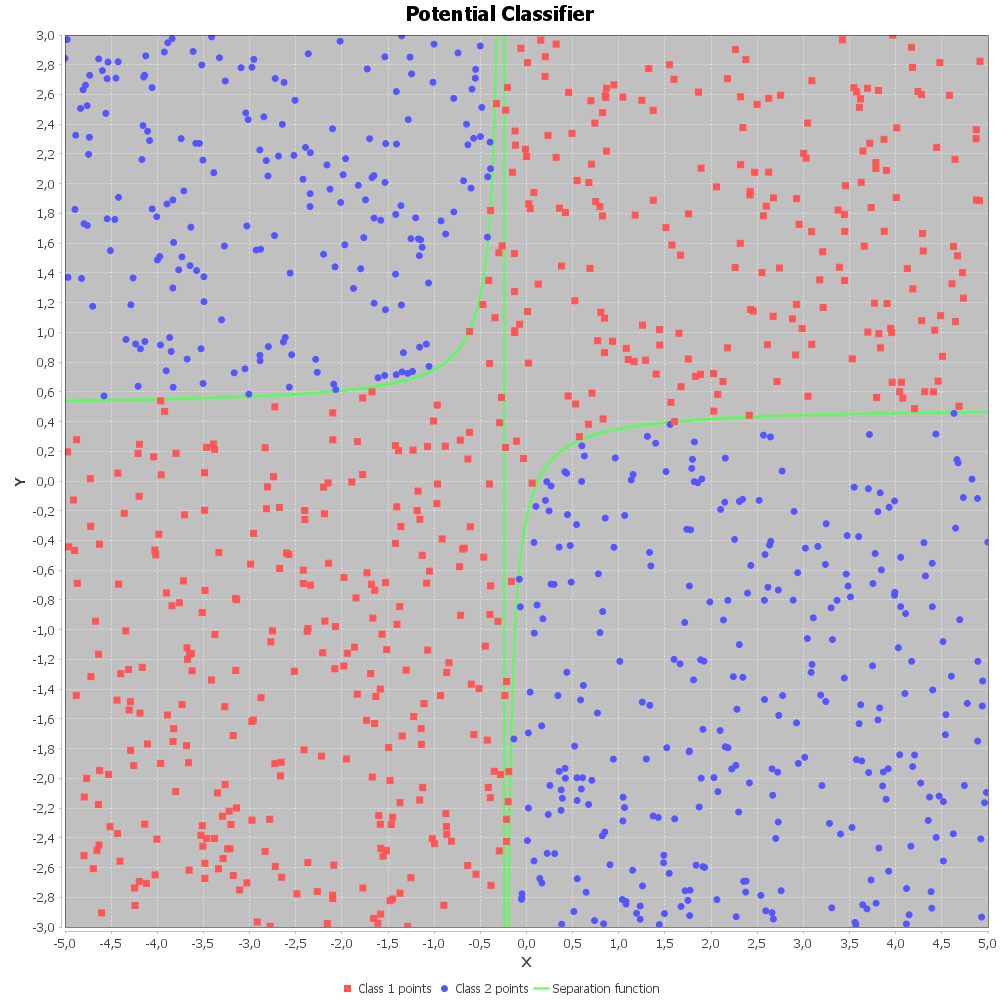
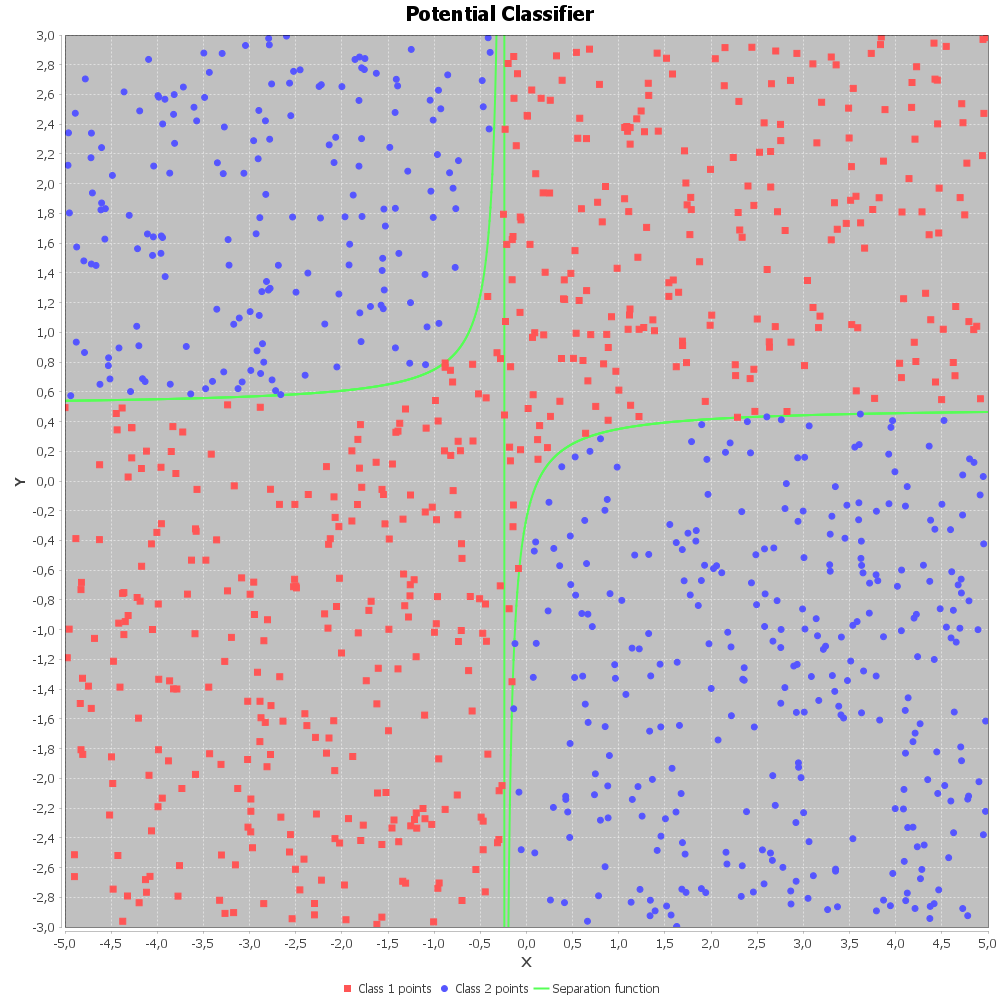
1

diff --git a/Lab05/src/main/kotlin/hummel/PotentialClassifier.kt b/Lab05/src/main/kotlin/hummel/PotentialClassifier.kt
@@ -1,83 +1,23 @@
 package hummel
 
-// Создание точки из двух координат
-infix fun Double.to(y: Double): UnclassifiedPoint = UnclassifiedPoint(this, y)
-
-// Присвоение класса точке
-infix fun UnclassifiedPoint.classifiedBy(classIndex: Int): Point = Point(this.x, this.y, classIndex)
-
-// Класс представляющий точку без классификации
-data class UnclassifiedPoint(val x: Double, val y: Double)
-
-// Класс представляющий точку с классификацией
-data class Point(val x: Double, val y: Double, val classIndex: Int)
-
-// Структура данных, содержащая функции для решений и построения графика
-data class GeneratedFunctions(val decisionFunction: PotentialDecisionFunction, val chartFunction: ChartFunction)
-
-// Коэффициенты для потенциальной функции
-private val ERMIT_COEFFICIENTS = PotentialCoefficients(1.0, 4.0, 4.0, 16.0)
-private val INITIAL_COEFFICIENTS = PotentialCoefficients(0.0, 0.0, 0.0, 0.0)
-
-// Типы для удобства использования
-typealias PotentialDecisionFunction = (UnclassifiedPoint) -> Point
+typealias DecisionFunction = (UnclassifiedPoint) -> ClassifiedPoint
 typealias ChartFunction = (Double) -> Double
+typealias PotentialFunction = (ClassifiedPoint) -> Double
 
-// Тип для представления потенциальной функции
-private typealias PotentialFunction = (Point) -> Double
+data class UnclassifiedPoint(val x: Double, val y: Double)
+data class ClassifiedPoint(val x: Double, val y: Double, val classIndex: Int)
+data class GeneratedFunctions(val decisionFunction: DecisionFunction, val chartFunction: ChartFunction)
 
-// Класс, представляющий коэффициенты потенциальной функции
-data class PotentialCoefficients(val first: Double, val second: Double, val third: Double, val fourth: Double) {
-
-	// Перегрузка операторов для удобства работы с коэффициентами
-	operator fun plus(other: PotentialCoefficients): PotentialCoefficients =
-		PotentialCoefficients(first + other.first, second + other.second, third + other.third, fourth + other.fourth)
-
-	operator fun times(c: Double): PotentialCoefficients =
-		PotentialCoefficients(c * first, c * second, c * third, c * fourth)
-
-	// Подстановка значений точки в коэффициенты
-	fun substitutePoint(point: Point): PotentialCoefficients =
-		PotentialCoefficients(first, second * point.x, third * point.y, fourth * point.x * point.y)
-
-	// Получение потенциальной функции
-	fun getPotentialFunction(): PotentialFunction = { (x, y, _) ->
-		first + second * x + third * y + fourth * x * y
-	}
-
-	// Получение функции для построения графика
-	fun getChartFunction(): (Double) -> Double = {
-		-(first + second * it) / (third + fourth * it)
-	}
-
-	// Строковое представление коэффициентов
-	override fun toString(): String {
-		return "$first + ($second)*X + ($third)*Y + ($fourth)*X*Y"
-	}
-}
-
-// Функция для получения коэффициента нормализации
-private fun getNormalizationCoefficient(potentialValue: Double, classIndex: Int) =
-	if (classIndex == 1 && potentialValue <= 0) {
-		1.0
-	} else if (classIndex == 2 && potentialValue > 0) {
-		-1.0
-	} else {
-		0.0
-	}
-
-// Генерация функции принятия решений и функции для графика
-fun generateDecisionFunction(
-	trainSet: Array<Point>, initialPotentialCoefficients: PotentialCoefficients = INITIAL_COEFFICIENTS
-): GeneratedFunctions = generateDecisionFunction(trainSet.asList(), initialPotentialCoefficients)
+private val ermitCoefficients = PotentialCoefficients(1.0, 4.0, 4.0, 16.0)
+private val initialCoefficients = PotentialCoefficients(0.0, 0.0, 0.0, 0.0)
 
 fun generateDecisionFunction(
-	trainSet: List<Point>, initialPotentialCoefficients: PotentialCoefficients = INITIAL_COEFFICIENTS
+	trainSet: List<ClassifiedPoint>, initialPotentialCoefficients: PotentialCoefficients = initialCoefficients
 ): GeneratedFunctions {
 	var potentialCoefficients = initialPotentialCoefficients
 	var normalizationCoefficient = 1.0
 	for (i in 0..(trainSet.size - 2)) {
-		val localPotentialCoefficients = ERMIT_COEFFICIENTS.substitutePoint(trainSet[i])
+		val localPotentialCoefficients = ermitCoefficients.substitutePoint(trainSet[i])
 		potentialCoefficients += (localPotentialCoefficients * normalizationCoefficient)
 		val potentialValue = potentialCoefficients.getPotentialFunction()(trainSet[i + 1])
 		normalizationCoefficient = getNormalizationCoefficient(potentialValue, trainSet[i + 1].classIndex)
@@ -87,9 +27,45 @@ fun generateDecisionFunction(
 		val potentialValue =
 			potentialCoefficients.first + potentialCoefficients.second * x + potentialCoefficients.third * y + potentialCoefficients.fourth * x * y
 		if (potentialValue <= 0) {
-			Point(x, y, 2)
+			ClassifiedPoint(x, y, 2)
 		} else {
-			Point(x, y, 1)
+			ClassifiedPoint(x, y, 1)
 		}
 	}, potentialCoefficients.getChartFunction())
+}
+
+private fun getNormalizationCoefficient(potentialValue: Double, classIndex: Int): Double {
+	return if (classIndex == 1 && potentialValue <= 0) {
+		1.0
+	} else if (classIndex == 2 && potentialValue > 0) {
+		-1.0
+	} else {
+		0.0
+	}
+}
+
+data class PotentialCoefficients(val first: Double, val second: Double, val third: Double, val fourth: Double) {
+	operator fun plus(other: PotentialCoefficients): PotentialCoefficients {
+		return PotentialCoefficients(
+			first + other.first, second + other.second, third + other.third, fourth + other.fourth
+		)
+	}
+
+	operator fun times(c: Double): PotentialCoefficients {
+		return PotentialCoefficients(c * first, c * second, c * third, c * fourth)
+	}
+
+	fun substitutePoint(point: ClassifiedPoint): PotentialCoefficients {
+		return PotentialCoefficients(first, second * point.x, third * point.y, fourth * point.x * point.y)
+	}
+
+	fun getPotentialFunction(): PotentialFunction {
+		return { (x, y, _) -> first + second * x + third * y + fourth * x * y }
+	}
+
+	fun getChartFunction(): ChartFunction {
+		return { -(first + second * it) / (third + fourth * it) }
+	}
+
+	override fun toString(): String = "$first + ($second)*X + ($third)*Y + ($fourth)*X*Y"
 }

diff --git a/Lab05/src/main/kotlin/hummel/Main.kt b/Lab05/src/main/kotlin/hummel/Main.kt
@@ -2,62 +2,46 @@ package hummel
 
 import java.util.*
 
-// Инициализация объекта для генерации случайных чисел
-val RANDOM: Random = Random()
+val random: Random = Random()
+val xRange: Range = Range(-5.0, 5.0)
+val yRange: Range = Range(-3.0, 3.0)
 
-// Класс, представляющий диапазон значений
+val trainSet: MutableList<ClassifiedPoint> = mutableListOf(
+	ClassifiedPoint(-1.0, 0.0, 1),
+	ClassifiedPoint(1.0, 1.0, 1),
+	ClassifiedPoint(2.0, 0.0, 2),
+	ClassifiedPoint(1.0, -2.0, 2)
+)
+
+val trainSetIntersectedLines: MutableList<ClassifiedPoint> = mutableListOf(
+	ClassifiedPoint(-1.0, -1.0, 1),
+	ClassifiedPoint(1.0, 1.0, 1),
+	ClassifiedPoint(-1.0, 1.0, 2),
+	ClassifiedPoint(1.0, -1.0, 2)
+)
+
+fun main() {
+	val dataSets = arrayOf(trainSet, trainSetIntersectedLines)
+
+	dataSets.forEachIndexed { index, dataSet ->
+		//разделяющая функция и решающее правило
+		val (decisionFunction, chartFunction) = generateDecisionFunction(dataSet)
+
+		val points = List(1000) { UnclassifiedPoint(xRange.random(), yRange.random()) }
+
+		val classifiedPoints = points.map { decisionFunction(it) }
+		draw(classifiedPoints, xRange, yRange, chartFunction, index)
+	}
+}
+
 data class Range(val from: Double, val to: Double) {
+	fun random(): Double = from + (to - from) * random.nextDouble()
 
-	// Генерация случайного числа в пределах диапазона
-	fun randomInto(): Double = from + (to - from) * RANDOM.nextDouble()
-
-	// Выполнение действия для каждого значения с шагом
-	fun forEachWithStep(step: Double, action: (currentValue: Double) -> Unit) {
+	fun forEachWithStep(step: Double, action: (Double) -> Unit) {
 		var current = from
 		while (current < to) {
 			action(current)
 			current += step
 		}
-	}
-}
-
-// Задание диапазонов для координат X и Y
-val X_RANGE: Range = Range(-5.0, 5.0)
-val Y_RANGE: Range = Range(-3.0, 3.0)
-
-// Задание обучающего набора по умолчанию
-val TRAIN_SET_DEFAULT: Array<Point> = arrayOf(
-	-1.0 to 0.0 classifiedBy 1, 1.0 to 1.0 classifiedBy 1, 2.0 to 0.0 classifiedBy 2, 1.0 to -2.0 classifiedBy 2
-)
-
-// Задание обучающего набора для пересекающихся линий
-val TRAIN_DATA_INTERSECTED_LINES: Array<Point> = arrayOf(
-	-1.0 to -1.0 classifiedBy 1, 1.0 to 1.0 classifiedBy 1, -1.0 to 1.0 classifiedBy 2, 1.0 to -1.0 classifiedBy 2
-)
-
-// Количество случайных точек для генерации
-const val POINT_NUMBER: Int = 1000
-
-// Основная функция
-fun main() {
-	// Массив обучающих наборов
-	val dataSets = arrayOf(TRAIN_SET_DEFAULT, TRAIN_DATA_INTERSECTED_LINES)
-
-	// Итерация по обучающим наборам
-	dataSets.forEachIndexed { index, dataSet ->
-		// Генерация функции принятия решений и функции для графика
-		val (decisionFunction, chartFunction) = generateDecisionFunction(dataSet)
-
-		// Генерация случайных неклассифицированных точек
-		val points = mutableListOf<UnclassifiedPoint>()
-		for (i in 1..POINT_NUMBER) {
-			points.add(
-				X_RANGE.randomInto() to Y_RANGE.randomInto()
-			)
-		}
-
-		// Классификация сгенерированных точек и отрисовка графика
-		val classifiedPoints = points.map { decisionFunction(it) }
-		draw(classifiedPoints, X_RANGE, Y_RANGE, chartFunction, index)
 	}
 }

diff --git a/Lab05/src/main/kotlin/hummel/Draw.kt b/Lab05/src/main/kotlin/hummel/Draw.kt
@@ -10,46 +10,29 @@ import org.jfree.data.xy.XYSeriesCollection
 import java.awt.BasicStroke
 import java.io.File
 
-// Функция для отрисовки графика распознавания объектов методом потенциалов
-fun draw(points: List<Point>, xRange: Range, yRange: Range, chartFunction: ChartFunction, index: Int) {
-	// Создание коллекции данных для графика
+fun draw(points: List<ClassifiedPoint>, xRange: Range, yRange: Range, chartFunction: ChartFunction, index: Int) {
 	val dataset = XYSeriesCollection()
 
-	// Создание серий данных для классов и функции разделения
 	val series1 = XYSeries("Class 1 points")
 	val series2 = XYSeries("Class 2 points")
 	val series3 = XYSeries("Separation function")
 
-	// Заполнение серий данными точек классов
-	points.forEach { (x, y, classIndex) ->
-		if (classIndex == 1) {
-			series1
-		} else {
-			series2
-		}.add(x, y)
-	}
+	points.forEach { (x, y, classIndex) -> (if (classIndex == 1) series1 else series2).add(x, y) }
 
-	// Заполнение серии данных для функции разделения
-	xRange.forEachWithStep(0.01) {
-		series3.add(it, chartFunction(it))
-	}
+	xRange.forEachWithStep(0.01) { series3.add(it, chartFunction(it)) }
 
-	// Добавление серий в коллекцию данных
 	dataset.addSeries(series1)
 	dataset.addSeries(series2)
 	dataset.addSeries(series3)
 
-	// Создание графика с использованием библиотеки JFreeChart
 	val chart = ChartFactory.createXYLineChart(
 		"Potential Classifier", "X", "Y", dataset, PlotOrientation.VERTICAL, true, false, false
 	)
 
-	// Получение объекта XYPlot для настройки осей
-	val plot: XYPlot = chart.plot as XYPlot
+	val plot = chart.plot as XYPlot
 	plot.domainAxis.setRange(xRange.from, xRange.to)
 	plot.rangeAxis.setRange(yRange.from, yRange.to)
 
-	// Получение объекта рендерера для настройки внешнего вида графика
 	val renderer = plot.renderer as XYLineAndShapeRenderer
 	renderer.setSeriesLinesVisible(0, false)
 	renderer.setSeriesShapesVisible(0, true)
@@ -57,6 +40,5 @@ fun draw(points: List<Point>, xRange: Range, yRange: Range, chartFunction: Chart
 	renderer.setSeriesShapesVisible(1, true)
 	renderer.setSeriesStroke(2, BasicStroke(2F))
 
-	// Сохранение графика в файл формата PNG
 	ChartUtils.saveChartAsPNG(File("images/classification-chart-$index.jpg"), chart, 1000, 1000)
 }
